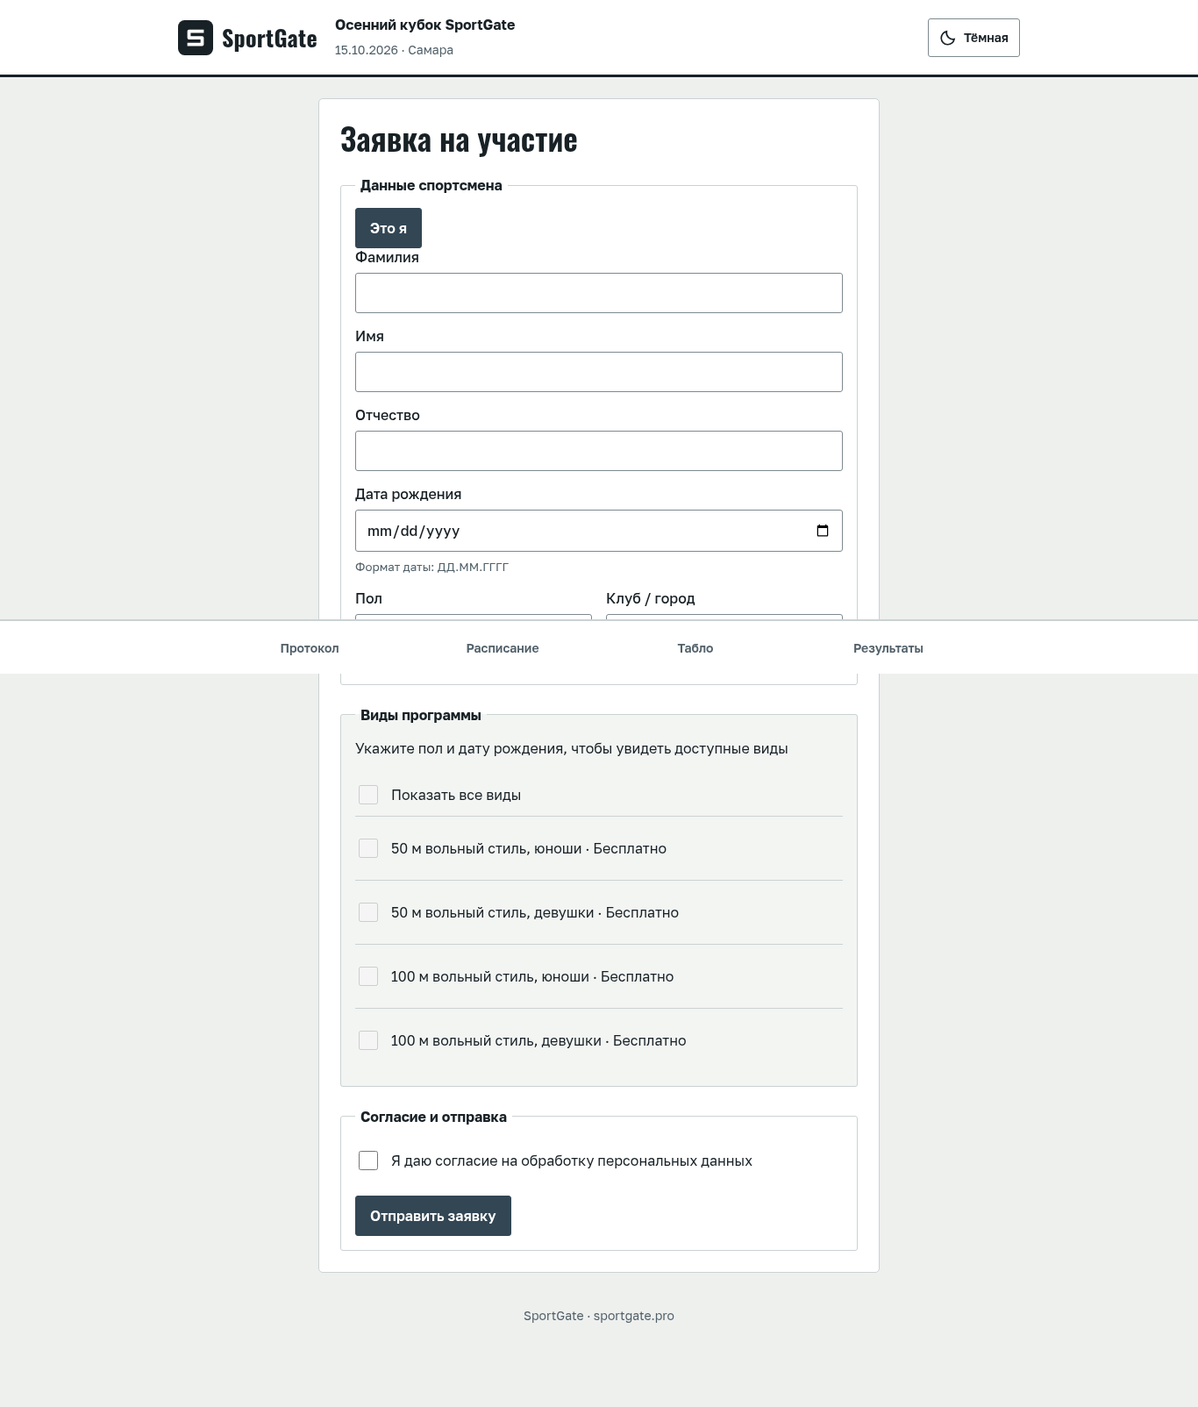
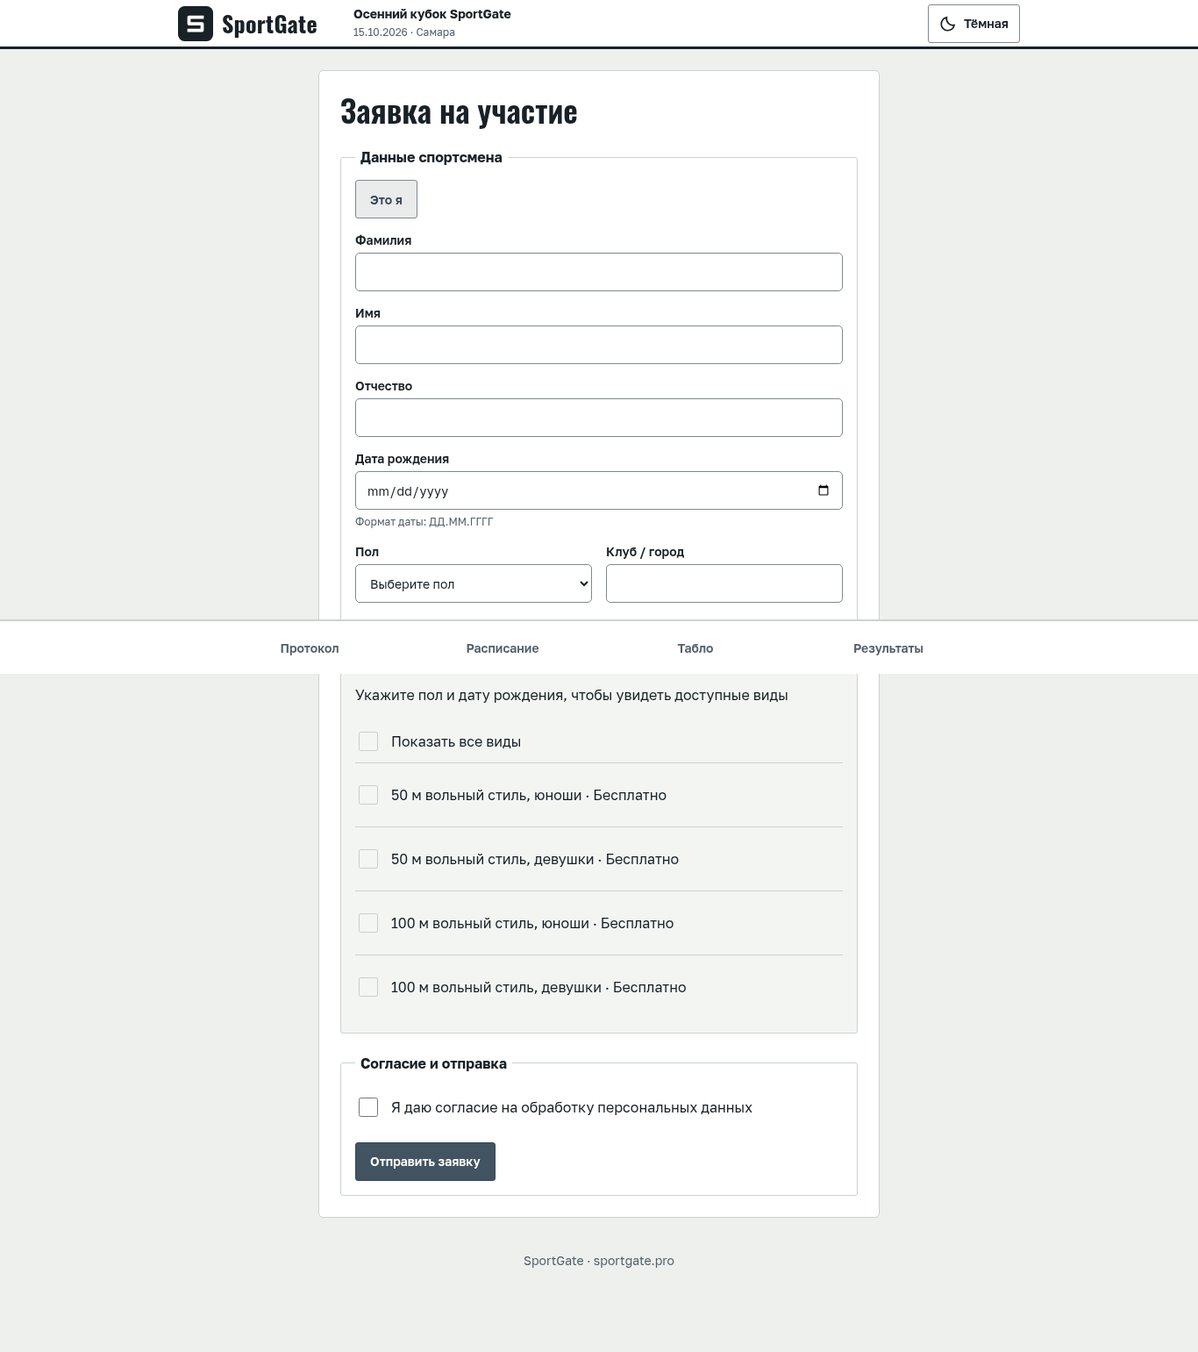
fix(d03): preserve owner UX additions after visual rebase

diff --git a/sport-platform/frontend/e2e/qa06-d03.spec.ts b/sport-platform/frontend/e2e/qa06-d03.spec.ts
@@ -101,7 +101,7 @@ for (const theme of ['light', 'dark']) test(`D03 public header rule and current 
   expect(await meta.evaluate(el => getComputedStyle(el).backgroundColor)).toBe('rgba(0, 0, 0, 0)')
   expect(await link.evaluate(el => getComputedStyle(el).color)).not.toBe(await link.evaluate(el => getComputedStyle(el).backgroundColor))
   await page.setViewportSize({ width: 768, height: 900 })
-  const brandBox = (await header.getByRole('link', { name: 'SportGate' }).boundingBox())!
+  const brandBox = (await header.getByRole('link', { name: 'На главную', exact: true }).boundingBox())!
   const smallMetaBox = (await meta.boundingBox())!
   expect(smallMetaBox.x).toBeGreaterThanOrEqual(brandBox.x + brandBox.width)
 })

diff --git a/sport-platform/frontend/src/features/public/RegistrationPage.module.css b/sport-platform/frontend/src/features/public/RegistrationPage.module.css
@@ -29,6 +29,8 @@
 .form input[type=date] { display: block; max-width: 100%; }
 .form input[aria-invalid=true], .form select[aria-invalid=true] { border-color: var(--color-danger); }
 .form small { color: var(--color-text-muted); font-weight: 400; }
+.form :global(.fl-field) { margin-bottom: 16px; }
+.form fieldset > :global(.fl-btn-secondary) { margin-bottom: 16px; }
 .row { display: grid; gap: 0 16px; }
 .submit { margin-top: 16px; }
 @media (min-width: 640px) { .row { grid-template-columns: repeat(2, minmax(0, 1fr)); } }

diff --git a/docs/design/D03_Проверка.md b/docs/design/D03_Проверка.md
@@ -1,7 +1,7 @@
 # D03 — проверка UX и визуала v2
 
 PR-1: [#65](https://github.com/sergeymcdz-code/flounder/pull/65), `feat/D03-ux-nav`.
-PR-2: `feat/D03-visual-v2`, от обновлённой вершины PR-1 `c65b119`. Пока PR-1 открыт, база PR-2 — `feat/D03-ux-nav`; после его слияния нужна перебазировка на `main`.
+PR-2: `feat/D03-visual-v2`, от обновлённой вершины PR-1 `3fa9a99`. Пока PR-1 открыт, база PR-2 — `feat/D03-ux-nav`; после его слияния нужна перебазировка на `main`.
 
 ## Объём
 
@@ -16,7 +16,7 @@ Should:
 - Карточный режим заявок на 375 не включён: сохранён табличный порядок, внутренний скролл и закреплённые первые колонки D02. Это should; отдельный режим потребует дополнительной проверки редактирования и массового выбора.
 - Счётчик **заявок** в общем списке соревнований не показан: доступный `participantsCount` считает пловцов, а не заявки. Не подменяем понятия и не загружаем полный список заявок для каждой строки каталога.
 
-Новых серверных контрактов, миграций, ролей или TSV в PR-2 нет. Единственная новая зависимость — `@axe-core/playwright` в devDependencies. Цвета и шрифты D01, ключи `flounder.theme` / `flounder.auth-session` и бренд S01 сохранены. Новый ключ: `sportgate.my-swimmers`.
+Новых серверных контрактов, миграций, ролей или TSV в PR-2 нет. Axe использует `@axe-core/playwright` в devDependencies; зависимость перенесена в PR-1 для проверок UX-17. В PR-2 дополнительных зависимостей нет. Цвета и шрифты D01, ключи `flounder.theme` / `flounder.auth-session` и бренд S01 сохранены. Новый ключ: `sportgate.my-swimmers`.
 
 Обязательная дата рождения аккаунта сохранена по приоритетному ТЗ §5 и ограничению D03 на серверные изменения; пояснение находится в PR-1. «Утвердить результаты», положение, лист награждения и другие задачи этапа 2 не добавлены.
 
@@ -35,18 +35,18 @@ Should:
 
 ## Проверки
 
-Проверено после ревью 1 в окружении flounder (Chromium, PostgreSQL/Testcontainers, Java 21). Unit: **218 Vitest + 3 node tests**, build и lint — exit 0. `test:organizer`: **15 passed**. QA06: **76 passed**; 4 служебных capture-теста пропущены стандартным запуском, D03-снимки сняты через `D03_CAPTURE=1`. Axe: **22 запуска WCAG 2.1 AA, 0 serious/critical**. Новые проверки: отсутствие внутреннего скролла заявок и минимум 4 полных строки на 1366, линия публичной шапки и ссылка текущего заплыва в light/dark, скрытые PDF/печать для судьи. QR PDF — одна страница A4, QR 60 мм. Семишаговый QA05 с настоящим backend: **2 passed (QA05 + S02), все 7 шагов QA05 без ошибок, audit=[]**.
+Проверено после ревью 1 и UX-16/UX-17 в окружении flounder (Chromium, PostgreSQL/Testcontainers, Java 21). Unit: **220 Vitest, node-набор прошёл**, build и lint — exit 0. `test:organizer`: **15 passed**. QA06: **92 passed**; 4 служебных capture-теста пропущены стандартным запуском, D03-снимки сняты через `D03_CAPTURE=1`. Axe: **26 запусков WCAG 2.1 AA, 0 serious/critical**. Новые проверки: отсутствие внутреннего скролла заявок и минимум 4 полных строки на 1366, линия публичной шапки и ссылка текущего заплыва в light/dark, скрытые PDF/печать для судьи. QR PDF — одна страница A4, QR 60 мм. Семишаговый QA05 с настоящим backend: **2 passed (QA05 + S02), все 7 шагов QA05 без ошибок, audit=[]**.
 
 Полный backend-прогон после правок PR-1: **1636 тестов, 71 suite, 0 failures/errors/skipped**, `mvn -q test` с Docker — exit 0; серверная часть PR-2 идентична проверенной ветке PR-1. До ревью также выполнялась расширенная capture-матрица 32 маршрута × 1366/375 (64 проверки без pageerror/переполнений); текущий повтор покрывает полный QA06 и постоянную D03-матрицу.
 
 - Unit: Button (варианты, загрузка, ссылки), StatusBadge, Tabs, EmptyState, чек-лист, мастер создания, неофициальные результаты, сохранение и расчёт следующих стартов пловца, последовательная массовая обработка с частичной ошибкой.
-- QA06: 9 экранов × 2 ширины; кабинет light, публичные light/dark — 22 запуска axe WCAG 2.1 AA. Дополнительно — восемь дорожек и видимая primary 56 px, активная вкладка, фокус, выбор пловцов, QR-плакат и print warning; существующая регрессия и D02.
+- QA06: 9 экранов × 2 ширины; кабинет light, публичные light/dark — 22 запуска axe WCAG 2.1 AA; форма заявки — ещё 4 проверки (375/1366 × light/dark). Дополнительно — восемь дорожек и видимая primary 56 px, активная вкладка, фокус, выбор пловцов, QR-плакат и print warning; существующая регрессия и D02.
 - Backend: полный `mvn -q test`, включая security matrix, проверку документов и Modulith.
-- Бандл: сумма gzip всех файлов `dist/assets/*.{js,css}`, одинаковая методика для исходного main `4571b33` и PR-2. Исходный main: **211 385 байт**; PR-2: **226 550 байт**, прирост **15 165 байт / 14,81 КиБ gzip**, меньше лимита +30 КБ.
+- Бандл: сумма gzip всех файлов `dist/assets/*.{js,css}`, одинаковая методика для исходного main `4571b33` и PR-2. Исходный main: **211 385 байт**; PR-2: **227 171 байт**, прирост **15 786 байт / 15,42 КиБ gzip**, меньше лимита +30 КБ.
 
 ## Снимки
 
-Восемь `D03-v2-*.png`: верхняя строка — исходный PR-1 `86572c7` до визуальных изменений, нижняя — PR-2; в каждой строке 1366×768 и 375×812. Исходные UX-снимки PR-1 сохранены отдельно как `D03-nav-*.png`. Всего D03: **13 PNG, 2 665 495 байт (менее 3 МБ)**; лимит — 15 файлов / 3 МБ.
+Восемь сравнительных `D03-v2-*.png`: верхняя строка — исходный PR-1 `86572c7` до визуальных изменений, нижняя — PR-2; в каждой строке 1366×768 и 375×812. Два дополнительных `D03-v2-register-375.png` / `-1366.png` показывают форму целиком. Исходные UX-снимки PR-1 сохранены отдельно как `D03-nav-*.png`. Всего D03: **15 PNG, 2 830 657 байт (менее 3 МБ)**; лимит — 15 файлов / 3 МБ.
 
 ## Ручная проверка
 
@@ -61,12 +61,23 @@ Should:
 
 ## Правки по ревью 1
 
-- PR-2 перебазирован на PR-1 `c65b119` (исправления `4624832`, интеграция main `8d709be`): Б1/Б2 перенесены вместе с новым условием `paymentStatus !== 'PAID'`, прямой UI-проверкой оплаты QA05 и публикацией DRAFT-вида. В PR-2 условие применено и к массовой оплате, кнопка публикации оформлена как secondary.
+- PR-2 перебазирован на PR-1 `3fa9a99` (исправления `4624832`, интеграция main `8d709be`): Б1/Б2 перенесены вместе с новым условием `paymentStatus !== 'PAID'`, прямой UI-проверкой оплаты QA05 и публикацией DRAFT-вида. В PR-2 условие применено и к массовой оплате, кнопка публикации оформлена как secondary.
 - Значки документов — внутри одного `fl-btn-label`; low-колонки скрыты включительно на 1366, отступы ячеек заявок — 8 px. Исправлен унаследованный width 105 px у чекбоксов. ФИО раскрывает подробности заявки; легенда/счётчик собраны в строку. Постоянные ассерты требуют отсутствие скролла контейнера и ≥4 полных строк на 1366×768.
 - Публичная meta-шапка прозрачна, на 3 px ниже высоты header и ограничена max-width с ellipsis. У ссылки текущего заплыва убран старый `styles.button`, сохранено положение в сетке. Light/dark и ширина 768 проверяются браузером.
 - Мобильное меню закрывается при переходе. `?archive=1` читается эффектом и потребляется: архив открывается с уже смонтированной главной и повторно после отмены. Прогресс/ошибки массовых действий сохранены.
 - «Расписание»/«Печать» — secondary; повторный h2 вида убран. «Сформировать по виду» находится в строке summary, отдельной кнопкой рядом в DOM. Вложенная в native summary кнопка даёт serious `nested-interactive` в axe; раздельная семантика сохраняет доступность и клавиатуру.
 - Исправлены склонения счётчиков, активные сегменты фильтров и «Все», aria-invalid/describedby перенесены на select, печать/PDF скрыты от judge. «Сегодня» учитывает весь интервал многодневного соревнования по площадке, даты программы используют её часовой пояс.
-- Все восемь сравнений обновлены, включая `D03-v2-entries.png`, `D03-v2-live.png`, `D03-v2-results.png`. Всего остаётся 13 PNG, меньше 3 МБ.
+- Все восемь сравнений обновлены, включая `D03-v2-entries.png`, `D03-v2-live.png`, `D03-v2-results.png`. Со снимками формы UX-17 всего 15 PNG, меньше 3 МБ.
 
 `--surface-sidebar` сохранён как алиас поверхности кабинета; дополнительной палитры он не вводит. N+1 загрузки заплывов по видам остаётся известной задачей этапа 2 из ревью; новых серверных контрактов D03 PR-2 не добавляет.
+
+
+### UX-16 / UX-17 — дополнения владельца
+
+PR-2 повторно перебазирован на PR-1 `3fa9a99`. Сохранены Б1/Б2, оплата `NOT_REQUIRED` через UI и публикация видов. Логотип/название SportGate в AppLayout (включая организатора, администратора, судью и авторизацию) и PublicLayout — ссылка «На главную»: гость → каталог, organizer/operator/platform_admin → список соревнований, judge → судейство, participant → «Мои заявки»; один выбор маршрута с возвратом после авторизации.
+
+Публичная форма `/e/:slug/register`: центральная карточка max-width 640 px, заголовок в потоке, три fieldset с отступами 16–24 px, нативная дата с подсказкой, пол и клуб в одной строке от 640 px и в столбик на мобильном. Согласие имеет кликабельную подпись, мобильная отправка занимает всю ширину; ошибки показываются под полями. Виды видны, но недоступны до ввода пола и даты рождения. В PR-2 сохранены `fl-form`/`fl-field`/`fl-btn`; у ссылок формы убран старый конфликтующий `styles.button`, «Это я» — secondary.
+
+Постоянные e2e: 14 переходов по логотипу (включая глубокие кабинеты и публичные страницы для всех ролей/гостя), геометрия формы на 375/1366, неактивный список видов, ошибки, согласие и отправка. Обе темы формы проверяются axe WCAG A/AA, 0 serious/critical. Новые снимки всей страницы: `screenshots/D03-v2-register-375.png`, `screenshots/D03-v2-register-1366.png`; они пересняты после адаптации общих компонентов PR-2.
+
+Ручная проверка: под каждой ролью нажать логотип из глубокой страницы и публичных результатов; гостем повторить со входа и создания аккаунта. Под участником открыть публичную заявку на 375/1366, сначала отправить пустую, затем заполнить пол/дату/вид/время и нажать текст согласия; проверить успешную отправку и обе темы. Миграций и изменений API дополнения не вводят; серверный код совпадает с уже проверенным backend PR-1.
